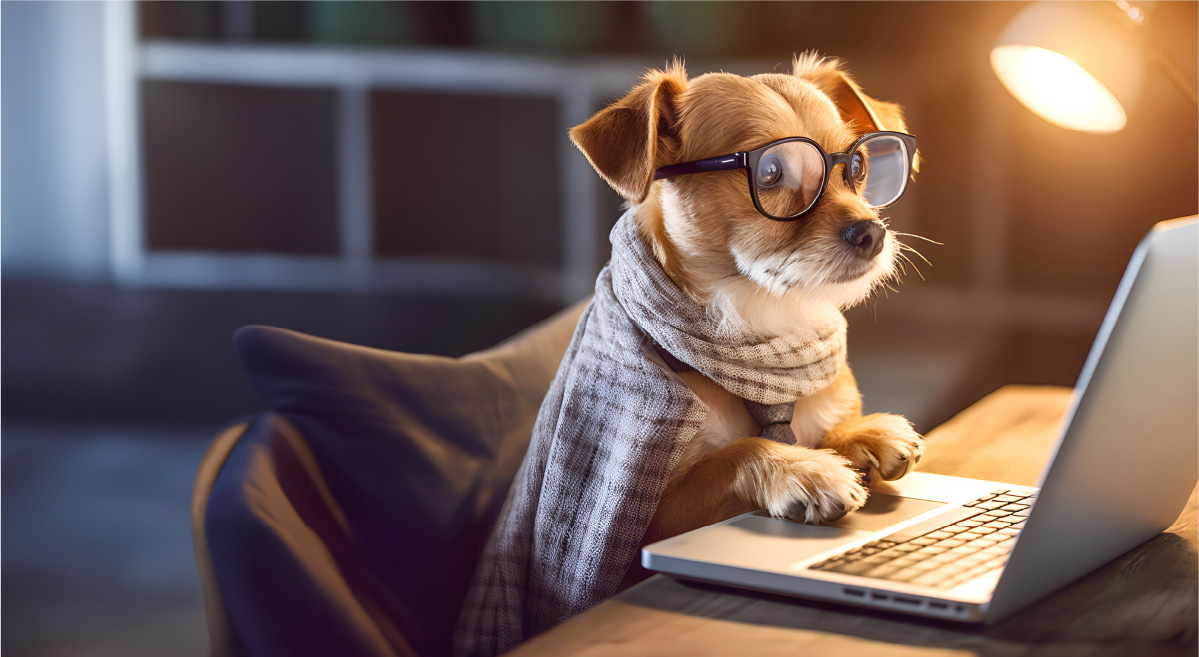
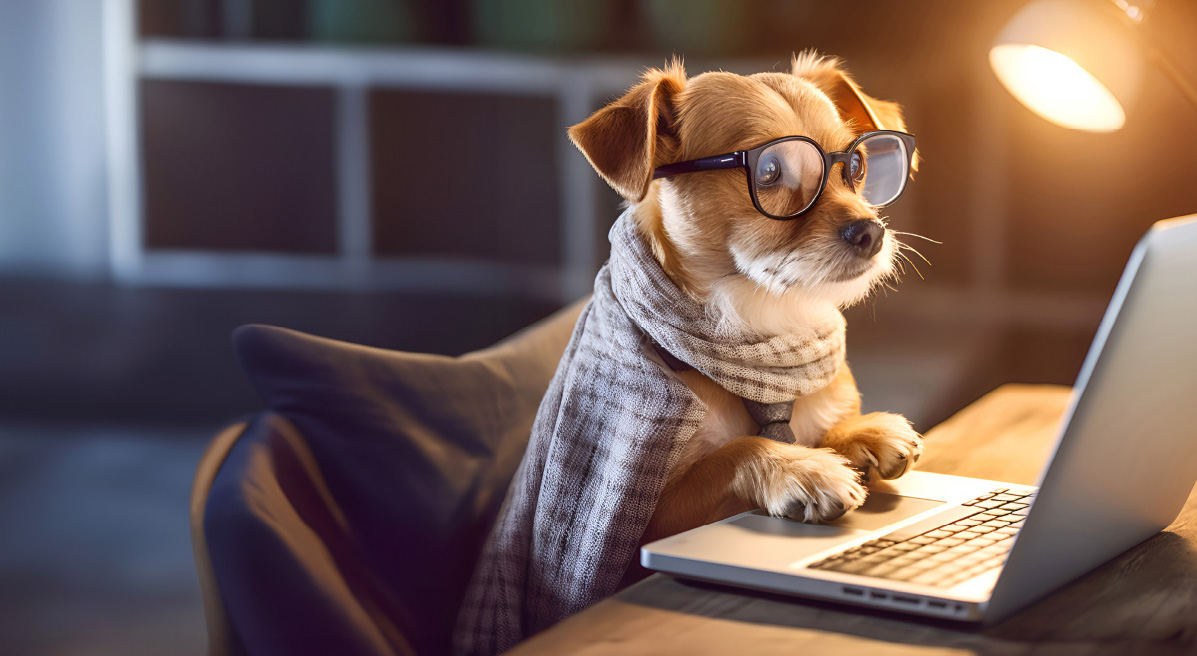
Update affiliate program page

diff --git a/src/app/[locale]/(main)/affiliate-program/page.tsx b/src/app/[locale]/(main)/affiliate-program/page.tsx
@@ -39,7 +39,7 @@ export default function AffiliateProgram() {
         </Container>
       </div>
       <div className="flex flex-wrap max-lg:flex-col-reverse">
-        <div className="min-h-[460px] w-1/2 bg-[url('./glass-dog.jpg')] bg-[length:auto_100%] bg-[center_right] bg-no-repeat max-lg:w-full"></div>
+        <div className="min-h-[300px] w-1/2 bg-[#383a4f] bg-[url('./glass-dog.jpg')] bg-[length:auto_100%] bg-[center_right] bg-no-repeat max-lg:w-full max-lg:bg-cover max-lg:pt-[54.8%]"></div>
         <div className="w-1/2 bg-primary bg-opacity-10 max-lg:w-full">
           <Block className="px-4 text-primary lg:max-w-[705px]">
             <h2 className="heading-1 text-center font-bold">The Program</h2>
@@ -119,9 +119,9 @@ export default function AffiliateProgram() {
             And We’ll Share The Wealth!
           </h2>
           <div className="pt-normal"></div>
-          <div className="-mx-4 -my-4 flex flex-wrap">
-            <div className="mx-auto w-1/3 max-w-screen-xs px-4 py-4 max-md:w-full">
-              <div className="drop-shadow-style-1 h-full rounded-3xl bg-white p-6 shadow-black/30">
+          <div className="-m-4 flex flex-wrap">
+            <div className="w-1/3 p-4 max-lg:w-full">
+              <div className="drop-shadow-style-1 mx-auto h-full max-w-screen-xs rounded-3xl bg-white px-6 py-8 shadow-black/30">
                 <h3 className="heading-4 font-bold text-gold">1. Join The Program</h3>
                 <div className="mt-4"></div>
                 <p className="body-1">
@@ -138,8 +138,8 @@ export default function AffiliateProgram() {
                 </p>
               </div>
             </div>
-            <div className="mx-auto w-1/3 max-w-screen-xs px-4 py-4 max-md:w-full">
-              <div className="drop-shadow-style-1 h-full rounded-3xl bg-white p-6 shadow-black/30">
+            <div className="w-1/3 p-4 max-lg:w-full">
+              <div className="drop-shadow-style-1 mx-auto h-full max-w-screen-xs rounded-3xl bg-white px-6 py-8 shadow-black/30">
                 <h3 className="heading-4 font-bold text-gold">2. Learn About Fresh Food</h3>
                 <div className="mt-4"></div>
                 <p className="body-1">
@@ -149,8 +149,8 @@ export default function AffiliateProgram() {
                 </p>
               </div>
             </div>
-            <div className="mx-auto w-1/3 max-w-screen-xs px-4 py-4 max-md:w-full">
-              <div className="drop-shadow-style-1 h-full rounded-3xl bg-white p-6 shadow-black/30">
+            <div className="w-1/3 p-4 max-lg:w-full">
+              <div className="drop-shadow-style-1 mx-auto h-full max-w-screen-xs rounded-3xl bg-white px-6 py-8 shadow-black/30">
                 <h3 className="heading-4 font-bold text-gold">3. Earn Money</h3>
                 <div className="mt-4"></div>
                 <p className="body-1">
@@ -160,7 +160,7 @@ export default function AffiliateProgram() {
               </div>
             </div>
           </div>
-          <div className="pt-10"></div>
+          <div className="pt-tight"></div>
           <Button>{t('join-now')}</Button>
         </Container>
       </Block>
